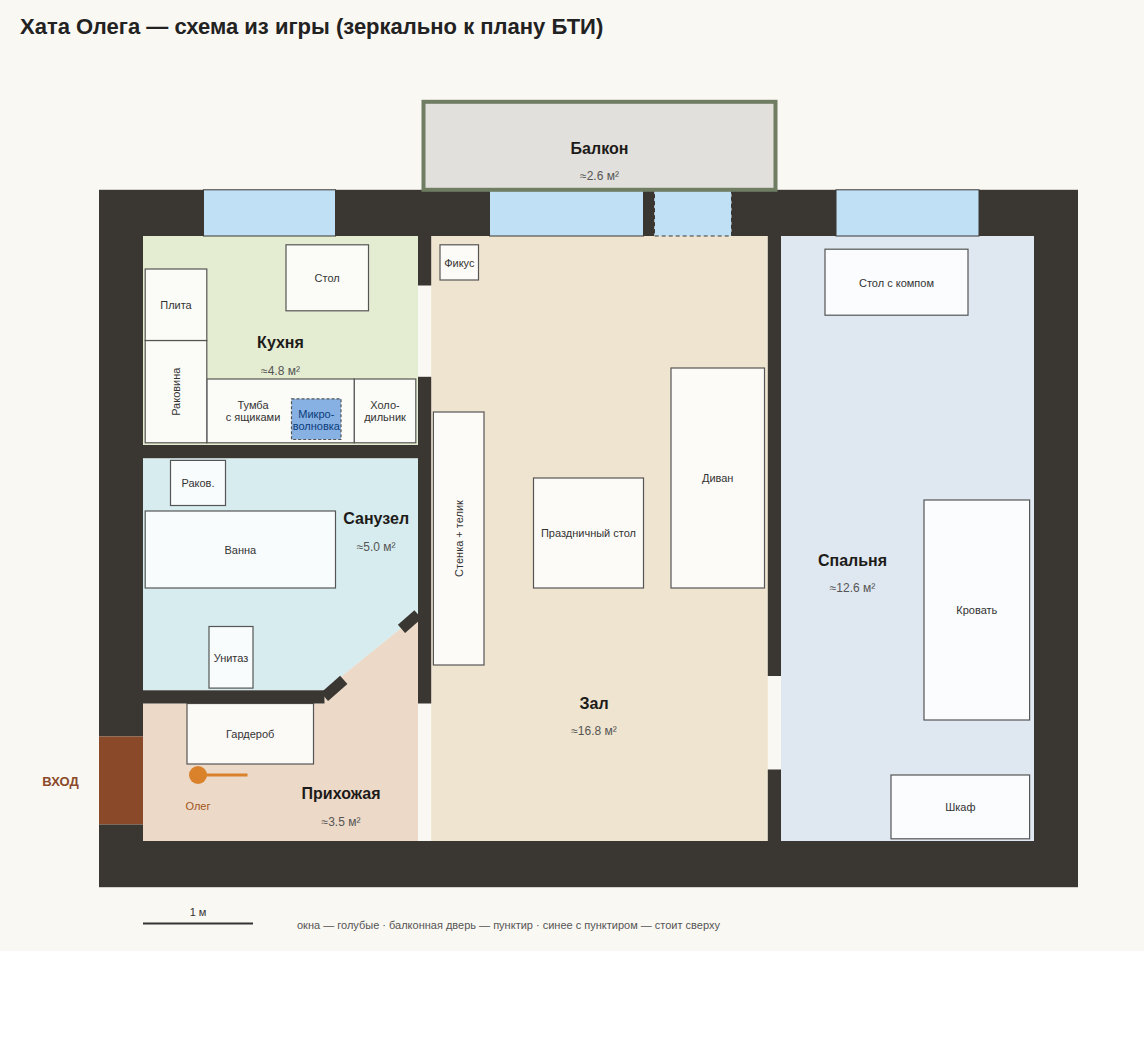
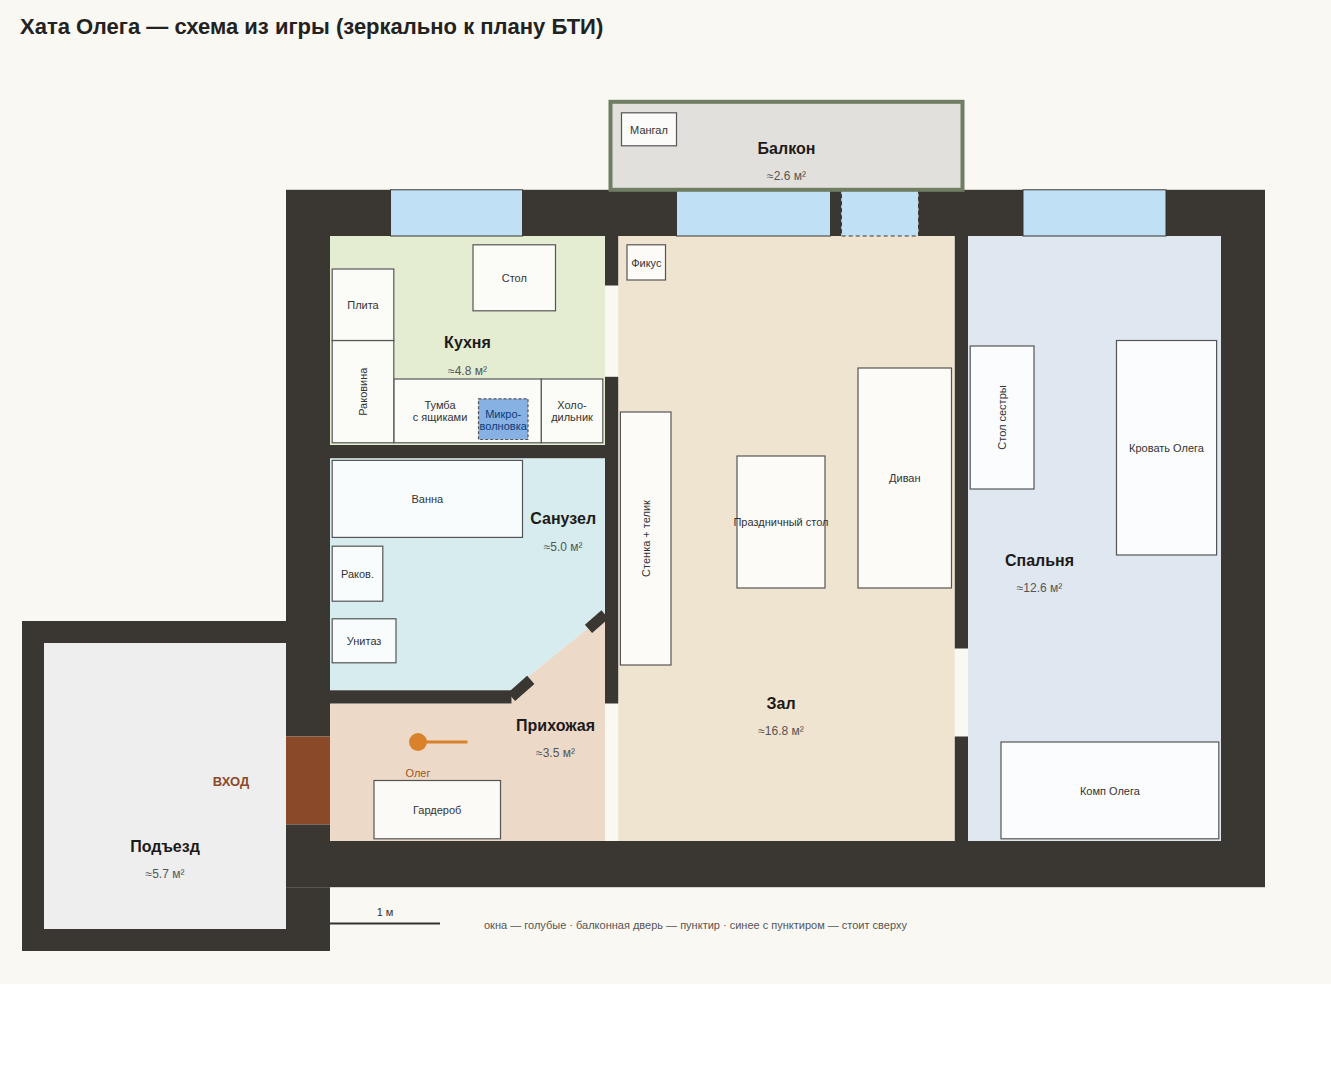
Docs: concept, CLAUDE.md, README; updated plan; debug handle for the player
Claude-Session: https://claude.ai/code/session_013vAnCPHSnzavvnAYdgsJk7

diff --git a/src/main.js b/src/main.js
@@ -41,6 +41,7 @@ const player = new Player(camera, [...apt.colliders, ...furn.colliders]);
 const fx = makeFX(renderer, scene, camera);
 const hud = createHUD({ onBuy: (id) => game.buy(id) });
 window.__game = game; // handy in the console
+window.__player = player;
 
 const orbit = new OrbitControls(orbitCam, canvas);
 orbit.target.set(4.05, 0, 2.4);

diff --git a/docs/CONCEPT.md b/docs/CONCEPT.md
@@ -1,0 +1,56 @@
+# 5 ночей на хате у Олега — концепт
+
+Подарок Олегу на днюху. Смесь Five Nights at Freddy's и Who's Your Daddy: Олег (игрок) пытается пережить ночь на своей хате, пока пацаны творят дичь. Одна ночь длится около 3 минут, пять ночей подряд — 15–20 минут. Олег всё время бегает по квартире и всех успокаивает.
+
+## Шкалы
+
+- **Общее веселье.** Тянется к среднему веселью всех участников: четверых пацанов, Олега и кота. Если у кого-то веселье упало до нуля, общее быстро валится. Общее на нуле — проигрыш («все разъехались по домам»).
+- **Веселье каждого участника.** Само по себе падает от скуки. Растёт от бухла, еды и занятий. Падает от проблем: плач, дым, «уснул», «ждёт туалет» и так далее.
+- **Состояние хаты.** Портится от блевоты (лужи), сломанной мебели, ментов и аварий у туалета. Хата на нуле — проигрыш.
+- **Соседи (палево).** Копятся шум, вонь и дым: музыка, плач, блюющий Лёха, лужи, мангал, погром, запертый кот, открытая входная дверь при музыке.
+  1. Шкала заполнилась — соседи стучат.
+  2. Открыл — шум падает, но злость копится, и в следующий раз придут раньше.
+  3. Проигнорил — сразу вызывают ментов.
+  4. Ментам взятку платишь обязательно, каждый раз дороже. Не хватает денег — протокол и минус хате. Не открыл ментам — выламывают дверь.
+- **Олег.** У него своё веселье и опьянение. Пьёт сам (Q): плывёт картинка, двоится, мотает, ходить тяжело. Перебрал — вырубается на несколько секунд.
+
+## Ресурсы и телефон (F)
+
+- Деньги выдаются на ночь.
+- **Бухло:**
+  - пиво дорогое, пьянит медленно, веселье держится долго;
+  - водка дешёвая, пьянит быстро, хаос начинается раньше.
+- **Еда:**
+  - пицца готовая, дорогая;
+  - пельмени дешёвые, но их надо сварить на плите и снять вовремя, иначе сгорят;
+  - шашлык Кирилла с балкона падает на стол бесплатно.
+- **Курьер** едет 15–30 с и стучит в дверь. Не открыл — уходит, деньги сгорают.
+- **Камера у входа.** Стук слышно всегда, а кто пришёл (курьер, соседи, менты, соседка с котом), видно только в телефоне.
+- **Инвентарь:** 4 слота. Пиво, водку и еду берёшь из холодильника, тряпку — у раковины в санузле, инструменты — в гардеробе, мышку ищешь по квартире.
+  - Бутылку можно поставить на стол, отдать кому-то или выпить самому.
+  - Тряпкой убираешь блевоту, инструментами чинишь сломанное.
+
+## Персонажи
+
+| Кто | Фишка | Как разрулить |
+|---|---|---|
+| **Алексей** | Бухает больше всех, но его не рвёт. Присасывается к бутылке, и бухло на столе тает. Иногда плачет. | Отобрать бутылку. Когда плачет: погладить по головке или обнять, работает что-то одно. |
+| **Лёха** | Быстро набухивается, потом бухать перестаёт, но ему плохо: блюёт, вырубается в ванне или громит хату. | Облить ледяным душем в санузле. Если громит — сначала отвести в ванную. Потом убрать и починить. |
+| **Кирилл** | Не пьёт. Жарит шашлык на балконе, иногда смотрит аниме на кровати Олега. | Раздувать мангал. Держать балконную дверь открытой, иначе задыхается в дыму. Будить, если уснул. |
+| **Темыч** | Парит вейп и запирается на балконе или в санузле. Через несколько секунд начинает кашлять. Заодно занимает туалет. | Открыть дверь и похлопать по спине. |
+| **Кот** | Лезет на балкон, когда дверь открыта. Посидит там — залезет на перила и выпадет. Может оказаться заперт. Скучает. | Снять с балкона или перил, открыть дверь. Погладить (быстро, но ненадолго) или дать мышку (надолго, но её надо найти). |
+
+Туалет — ключевая точка. Если занят, остальные ждут и теряют веселье. Не дотерпел — лужа и минус хате.
+
+Главные конфликты: Кириллу нужна открытая балконная дверь, а коту туда нельзя. Музыка всех веселит, но злит соседей. Водка дешёвая, но от неё раньше начинается хаос.
+
+## Ночи
+
+5 ночей. С каждой ночью проблемы случаются чаще (`difficultyPerNight`). После пятой ночи — экран поздравления (`BIRTHDAY` в `src/config.js`).
+
+## Не сделано / идеи
+
+- **Шлюхи** (Алексей заказывает, ещё не решено): бустят веселье, но жрут бухло. Уединились в туалете — туалет занят. После туалета 50% риск ЗПП, нужны таблетки от курьера. Таблетки уже есть в магазине с пометкой «скоро».
+- **Лица друзей** с фоток на головах персонажей (текстура на сферу или спрайт).
+- Реплики и голосовые пацанов, фото и видео в финальном поздравлении.
+- Баланс: все числа в `src/config.js`, крутить по ощущениям.

diff --git a/CLAUDE.md b/CLAUDE.md
@@ -1,0 +1,35 @@
+# 5 ночей на хате у Олега
+
+Browser 3D game (three.js + Vite, vanilla JS), a birthday gift. FNAF × Who's Your Daddy set in a real 2-room khrushchevka. Game design lives in `docs/CONCEPT.md`; keep it in sync when mechanics change. All player-facing text is Russian.
+
+## Commands
+
+- `npm install`, then `npm run dev` (http://localhost:5173)
+- `npm run build` builds to `dist/`, which works from any subfolder (`base: './'`)
+- `npm run plan` regenerates `docs/plan.svg` from the layout data
+
+## Map of the code
+
+- `src/world/layout.js` is the single source of truth for geometry: rooms, walls, openings, diagonal bath wall, furniture footprints, nav graph, friend and cat spots, toy hiding places, door camera.
+  - Everything is authored in **plan coordinates** (as on the BTI drawing) and mirrored on export (`MIRROR = true`). Never hand-mirror numbers.
+  - +X is right on the drawing, +Z is down (away from the windows), meters.
+- `src/world/apartment.js` builds walls with openings, wallpaper linings (only where a wall face exists), floors, windows, and the hinged doors (`doors.balcony/bath/entrance`).
+- `src/world/furniture.js`: each item is built in a local frame (u along the wall, v from the wall to the front, y up). Colliders come from layout footprints.
+- `src/world/figures.js` has the people, the cat, name sprites, puddles, toy, bottles, and broken marks. `textures.js` has procedural canvas textures (no image assets).
+- `src/game/friends.js` has the characters: activities, problems, and the actions Oleg can take on them. `game.js` runs the night: meters, noise and neighbours, visitors and courier, stove, grill, inventory, and the interactable targets.
+- `src/config.js` holds **all balance numbers**. Tune there, not in code.
+- `src/main.js` does renderer, modes (menu/play/orbit/end), input, raycast targeting, and the door-camera render copied into the phone. `player.js` is FPS movement with collisions and drunk sway. `fx.js` is the drunk shader. `audio.js` is synthesized sounds and music. `ui/hud.js` is the DOM HUD and phone.
+
+## Conventions
+
+- Interactable = any Object3D with `userData.target = { name, info?(), actions() -> [{ key: 'E'|'R'|'T', text, run }] }`.
+- Keys are read via `e.code`, so a Russian keyboard layout works.
+- No external assets: textures are canvas-generated and sounds are WebAudio.
+
+## Debugging
+
+URL params:
+- `?view=top` or `?view=orbit` opens the dollhouse view.
+- `?play` starts without pointer lock. Add `x`, `z`, `yaw`, `pitch` (degrees) to place Oleg, `t=SECONDS` to fast-forward the sim, `phone` to open the phone, `night=N` to pick a night.
+
+`window.__game` and `window.__player` are exposed. Headless Chromium for screenshots is at `/opt/pw-browsers/chromium`; launch it with `--use-angle=swiftshader --enable-unsafe-swiftshader`. It renders at about 1–2 fps, so wait a few seconds between steps.

diff --git a/README.md b/README.md
@@ -1,0 +1,23 @@
+# 5 ночей на хате у Олега
+
+3D-игра в браузере: подарок Олегу на днюху. Ты Олег, пацаны пришли бухать. Твоя задача — продержаться до 06:00, чтобы общее веселье не упало до нуля, хата уцелела, а кот не выпал с балкона.
+
+```bash
+npm install
+npm run dev
+```
+
+Откроется на http://localhost:5173. Играть нужно с компа.
+
+| Клавиши | Что делают |
+|---|---|
+| WASD, Shift | ходить, бегом |
+| мышь | смотреть |
+| E / R / T | действие с тем, на что смотришь |
+| 1–4, колесо | слот инвентаря |
+| Q | выпить или съесть самому |
+| G | выбросить предмет |
+| F | телефон: камера у двери и доставка |
+| Esc | пауза |
+
+Концепт и механики описаны в [docs/CONCEPT.md](docs/CONCEPT.md), все числа баланса — в `src/config.js`. План квартиры рисует `npm run plan` (в `docs/plan.svg`).
